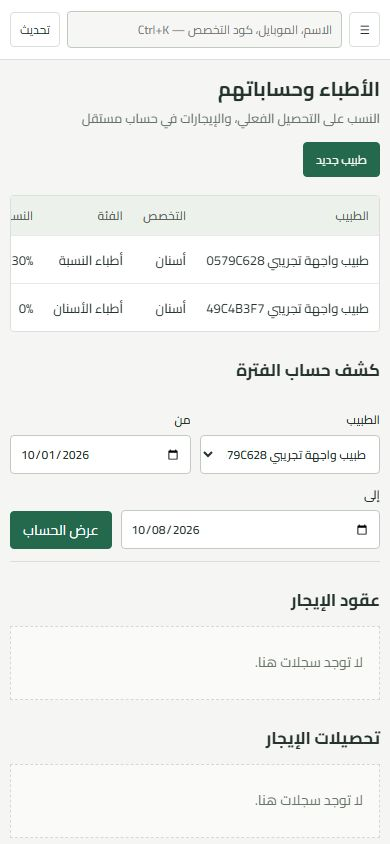
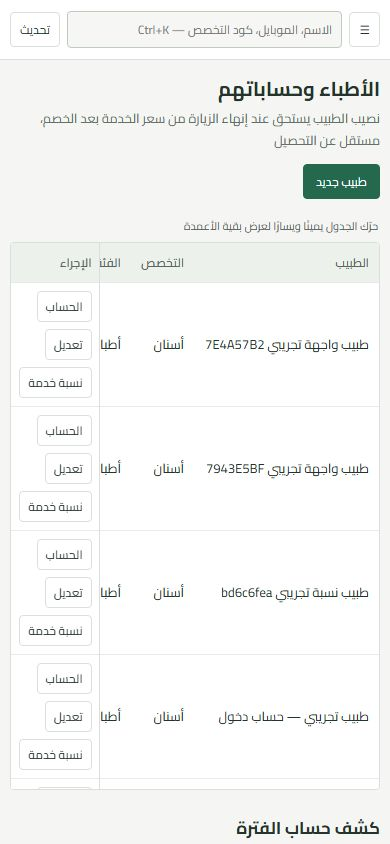
Earn doctor share on completed services independently of collections

diff --git a/src/clinic/Doctors.tsx b/src/clinic/Doctors.tsx
@@ -6,12 +6,12 @@ import {money} from '../domain/money';
 export default function Doctors(){
  const {rows,name,profile,refresh}=useClinic();const task=useTask();const [edit,setEdit]=useState<Row|null|undefined>();const [contract,setContract]=useState<Row|null>(null);const [rent,setRent]=useState<Row|null>(null);const [term,setTerm]=useState<Row|null>(null);
  const [doctor,setDoctor]=useState(profile.doctor_id??rows('doctors')[0]?.id??'');const [starts,setStarts]=useState(today().slice(0,8)+'01');const [ends,setEnds]=useState(today());const [statement,setStatement]=useState<Record<string,unknown>|null>(null);const [rentKey,setRentKey]=useState('');
- const fields:Field[]=[{key:'name',label:'اسم الطبيب',required:true},{key:'specialty_id',label:'التخصص',required:true,type:'select',options:rows('specialties').map(row=>({value:row.id,label:text(row.name)}))},{key:'category',label:'الفئة',type:'select',required:true,options:['dentist','percentage','renting'].map(value=>({value,label:label(value)}))},{key:'default_share_bps',label:'النسبة من التحصيل (%)',type:'percent',required:true},{key:'phone_e164',label:'الموبايل بصيغة +20 (اختياري)'},{key:'schedule',label:'أيام العمل',type:'weekdays',hint:'عدم اختيار أيام يعني متاح كل أيام الأسبوع.'},{key:'active',label:'نشط',type:'checkbox'}];
+ const fields:Field[]=[{key:'name',label:'اسم الطبيب',required:true},{key:'specialty_id',label:'التخصص',required:true,type:'select',options:rows('specialties').map(row=>({value:row.id,label:text(row.name)}))},{key:'category',label:'الفئة',type:'select',required:true,options:['dentist','percentage','renting'].map(value=>({value,label:label(value)}))},{key:'default_share_bps',label:'النسبة من قيمة الخدمة (%)',type:'percent',required:true},{key:'phone_e164',label:'الموبايل بصيغة +20 (اختياري)'},{key:'schedule',label:'أيام العمل',type:'weekdays',hint:'عدم اختيار أيام يعني متاح كل أيام الأسبوع.'},{key:'active',label:'نشط',type:'checkbox'}];
  const entries=(statement?.entries??[]) as Row[];const rents=(statement?.rent??[]) as Row[];
- return <><Heading title={profile.role==='doctor'?'حسابي':'الأطباء وحساباتهم'} detail="النسب على التحصيل الفعلي، والإيجارات في حساب مستقل">{profile.role==='owner'&&<button className="primary" onClick={()=>setEdit(null)}>طبيب جديد</button>}</Heading>{task.feedback}
+ return <><Heading title={profile.role==='doctor'?'حسابي':'الأطباء وحساباتهم'} detail="نصيب الطبيب يستحق عند إنهاء الزيارة من سعر الخدمة بعد الخصم، مستقل عن التحصيل">{profile.role==='owner'&&<button className="primary" onClick={()=>setEdit(null)}>طبيب جديد</button>}</Heading>{task.feedback}
  {profile.role==='owner'&&<Table rows={rows('doctors')} columns={[{label:'الطبيب',render:row=>text(row.name)},{label:'التخصص',render:row=>name('specialties',row.specialty_id)},{label:'الفئة',render:row=>label(row.category)},{label:'النسبة',numeric:true,render:row=>percentLabel(row.default_share_bps)},{label:'الحالة',render:row=><Badge>{row.active?'نشط':'غير نشط'}</Badge>},{label:'الإجراء',render:row=><div className="actions"><button onClick={()=>{setDoctor(row.id);setStatement(null);}}>الحساب</button><button onClick={()=>setEdit(row)}>تعديل</button><button onClick={()=>setTerm(row)}>نسبة خدمة</button>{row.category==='renting'&&<><button onClick={()=>setContract(row)}>عقد إيجار</button><button onClick={()=>{setRentKey(crypto.randomUUID());setRent(row);}}>تحصيل إيجار</button></>}</div>} ]}/>}
- <h2>كشف حساب الفترة</h2><div className="filters"><label>الطبيب<select value={doctor} onChange={event=>{setDoctor(event.target.value);setStatement(null);}}>{rows('doctors').map(row=><option key={row.id} value={row.id}>{text(row.name)}</option>)}</select></label><label>من<input type="date" value={starts} onChange={event=>setStarts(event.target.value)}/></label><label>إلى<input type="date" value={ends} onChange={event=>setEnds(event.target.value)}/></label><button className="primary" disabled={!doctor||task.busy} onClick={()=>void task.run(async()=>{const {data,error}=await db.rpc('doctor_statement',{doctor,starts,ends});if(error)throw error;setStatement(data as Record<string,unknown>);})}>عرض الحساب</button>{statement&&<><button onClick={()=>exportCsv(entries.map(row=>({الخدمة:row.service,التاريخ:date(row.received_at),المصدر:row.source,المحصل:money(row.collected_minor),نصيب_الطبيب:money(row.doctor_share_minor)})),'doctor-statement.csv')} disabled={!entries.length}>تصدير CSV</button><button onClick={()=>window.print()}>طباعة</button></>}</div>
- {statement&&<><div className="ledger-summary"><span>الخدمات المفوترة <strong>{money(statement.billed_minor)}</strong></span><span>المحصّل <strong>{money(statement.collected_minor)}</strong></span><span>نصيب الطبيب <strong>{money(statement.doctor_share_minor)}</strong></span></div><Table rows={entries.map((row,index)=>({...row,id:String(index)}))} columns={[{label:'الخدمة',render:row=>text(row.service)},{label:'تاريخ التحصيل',render:row=>date(row.received_at)},{label:'المصدر',render:row=>row.source==='patient'?'العميل':'التأمين'},{label:'المرجع',render:row=><bdi>{text(row.reference)}</bdi>},{label:'المحصّل',numeric:true,render:row=>money(row.collected_minor)},{label:'نصيب الطبيب',numeric:true,render:row=>money(row.doctor_share_minor)}]}/><h2>الإيجار المستحق خلال الفترة</h2><Table rows={rents} columns={[{label:'من',render:row=>date(row.period_start)},{label:'إلى',render:row=>date(row.period_end)},{label:'المستحق',numeric:true,render:row=>money(row.amount_minor)},{label:'المدفوع حتى نهاية الفترة',numeric:true,render:row=>money(row.paid_minor)},{label:'المتبقي',numeric:true,render:row=>money(BigInt(text(row.amount_minor))-BigInt(text(row.paid_minor)))}]}/></>}
+ <h2>كشف حساب الفترة</h2><div className="filters"><label>الطبيب<select value={doctor} onChange={event=>{setDoctor(event.target.value);setStatement(null);}}>{rows('doctors').map(row=><option key={row.id} value={row.id}>{text(row.name)}</option>)}</select></label><label>من<input type="date" value={starts} onChange={event=>setStarts(event.target.value)}/></label><label>إلى<input type="date" value={ends} onChange={event=>setEnds(event.target.value)}/></label><button className="primary" disabled={!doctor||task.busy} onClick={()=>void task.run(async()=>{const {data,error}=await db.rpc('doctor_statement',{doctor,starts,ends});if(error)throw error;setStatement(data as Record<string,unknown>);})}>عرض الحساب</button>{statement&&<><button onClick={()=>exportCsv(entries.map(row=>({الخدمة:row.service,التاريخ:date(row.received_at),قيمة_الخدمة:money(row.service_total_minor),النسبة:percentLabel(row.doctor_share_bps),نصيب_الطبيب:money(row.doctor_share_minor)})),'doctor-statement.csv')} disabled={!entries.length}>تصدير CSV</button><button onClick={()=>window.print()}>طباعة</button></>}</div>
+ {statement&&<><div className="ledger-summary"><span>الخدمات المنفذة <strong>{money(statement.completed_minor)}</strong></span><span>المحصّل <strong>{money(statement.collected_minor)}</strong></span><span>نصيب الطبيب المستحق <strong>{money(statement.doctor_share_minor)}</strong></span></div><Table rows={entries.map((row,index)=>({...row,id:String(index)}))} columns={[{label:'الخدمة',render:row=>text(row.service)},{label:'تاريخ إنهاء الزيارة',render:row=>date(row.received_at)},{label:'قيمة الخدمة بعد الخصم',numeric:true,render:row=>money(row.service_total_minor)},{label:'النسبة المثبتة',render:row=>percentLabel(row.doctor_share_bps)},{label:'نصيب الطبيب',numeric:true,render:row=>money(row.doctor_share_minor)}]}/><h2>الإيجار المستحق خلال الفترة</h2><Table rows={rents} columns={[{label:'من',render:row=>date(row.period_start)},{label:'إلى',render:row=>date(row.period_end)},{label:'المستحق',numeric:true,render:row=>money(row.amount_minor)},{label:'المدفوع حتى نهاية الفترة',numeric:true,render:row=>money(row.paid_minor)},{label:'المتبقي',numeric:true,render:row=>money(BigInt(text(row.amount_minor))-BigInt(text(row.paid_minor)))}]}/></>}
  {profile.role==='owner'&&<><h2>عقود الإيجار</h2><Table rows={rows('rent_contracts')} columns={[{label:'الطبيب',render:row=>name('doctors',row.doctor_id)},{label:'المبلغ',numeric:true,render:row=>money(row.amount_minor)},{label:'الدورية',render:row=>row.period==='monthly'?'شهري':'فترة محددة'},{label:'البداية',render:row=>date(row.starts_on)},{label:'الحالة',render:row=>row.active?'نشط':'مغلق'},{label:'الإجراء',render:row=>row.active?<button onClick={()=>{if(window.confirm('إغلاق العقد وإيقاف إنشاء مستحقات جديدة؟'))void task.run(async()=>{await command('rent_contract_close',{id:row.id});await refresh();});}}>إغلاق العقد</button>:'—'}]}/><h2>تحصيلات الإيجار</h2><Table rows={rows('rent_payments')} columns={[{label:'الطبيب',render:row=>name('doctors',row.doctor_id)},{label:'التاريخ',render:row=>date(row.paid_at)},{label:'المبلغ',numeric:true,render:row=>money(row.amount_minor)},{label:'الإيصال',render:row=><bdi>{text(row.receipt_number)}</bdi>},{label:'الإجراء',render:row=>!row.reverses_payment_id&&!rows('rent_payments').some(pay=>pay.reverses_payment_id===row.id)?<button onClick={()=>{if(window.confirm('عكس تحصيل الإيجار بالكامل؟'))void task.run(async()=>{await command('rent_reverse',{id:row.id,idempotency_key:crypto.randomUUID()});await refresh();});}}>عكس التحصيل</button>:row.reverses_payment_id?'عكس تحصيل':'اتعكس'}]}/></>}
  {edit!==undefined&&<Dialog title={edit?'تعديل الطبيب':'طبيب جديد'} close={()=>setEdit(undefined)}><Form fields={fields} initial={edit??{category:'dentist',default_share_bps:0,active:true}} submit={async values=>{await command('doctor_save',{...values,...(edit?{id:edit.id}:{})});await refresh();setEdit(undefined);}}/></Dialog>}
  {term&&<Dialog title={`نسبة خدمة — ${text(term.name)}`} close={()=>setTerm(null)}><Form fields={[{key:'service_id',label:'الخدمة',type:'select',required:true,options:rows('services').filter(row=>row.specialty_id===term.specialty_id).map(row=>({value:row.id,label:text(row.name)}))},{key:'share_bps',label:'النسبة (%)',type:'percent',required:true}]} initial={{share_bps:term.default_share_bps}} submit={async values=>{await command('doctor_service_share',{...values,doctor_id:term.id});await refresh();setTerm(null);}}/></Dialog>}

diff --git a/src/clinic/Reports.tsx b/src/clinic/Reports.tsx
@@ -2,7 +2,7 @@ import {useState} from 'react';
 import {date,label,text,today} from './api';
 import {useClinic} from './store';
 import {Heading,Table,exportCsv} from './ui';
-import {money} from '../domain/money';
+import {money,roundShare} from '../domain/money';
 const auditActions:Record<string,string>={doctor_terms_saved:'تعديل نسبة طبيب',insurance_terms_saved:'تعديل نسبة التأمين',line_added:'إضافة خدمة',offer_redeemed:'استخدام عرض',payment_recorded:'تسجيل تحصيل',payment_reversed:'رد تحصيل',prices_published:'نشر قائمة أسعار',service_share_saved:'تعديل نسبة خدمة',unposted_line_removed:'إزالة خدمة قبل التحصيل',visit_voided:'إلغاء زيارة',invoice_voided:'إلغاء فاتورة',rent_contract_closed:'إغلاق عقد إيجار',rent_contract_created:'إنشاء عقد إيجار',rent_received:'تحصيل إيجار',rent_reversed:'عكس تحصيل إيجار',settlement_received:'تسوية تأمين',settlement_reversed:'عكس تسوية',profile_changed:'تعديل حساب مستخدم'};
 const auditEntities:Record<string,string>={doctors:'طبيب',insurance_companies:'شركة تأمين',visit_lines:'خدمة زيارة',visits:'زيارة',payments:'إيصال',price_list_versions:'قائمة أسعار',insurance_invoices:'فاتورة تأمين',rent_contracts:'عقد إيجار',rent_payments:'تحصيل إيجار',insurance_settlements:'تسوية',profiles:'مستخدم'};
 const auditDetails=(value:unknown)=>{
@@ -19,8 +19,8 @@ export default function Reports(){
  const patientCash=payments.reduce((sum,row)=>sum+(row.kind==='refund'?-1n:1n)*BigInt(text(row.amount_minor)),0n);
  const insuranceCash=rows('settlement_allocations').filter(row=>settlements.some(pay=>pay.id===row.settlement_id)).reduce((sum,row)=>sum+(settlements.find(pay=>pay.id===row.settlement_id)?.reverses_settlement_id?-1n:1n)*BigInt(text(row.amount_minor)),0n);
  const rentCash=rents.reduce((sum,row)=>sum+(row.reverses_payment_id?-1n:1n)*BigInt(text(row.amount_minor)),0n);
- const patientShare=rows('payment_allocations').filter(row=>payments.some(pay=>pay.id===row.payment_id)).reduce((sum,row)=>sum+(payments.find(pay=>pay.id===row.payment_id)?.kind==='refund'?-1n:1n)*BigInt(text(row.doctor_share_minor)),0n);
- const insuranceShare=rows('settlement_allocations').filter(row=>settlements.some(pay=>pay.id===row.settlement_id)).reduce((sum,row)=>sum+(settlements.find(pay=>pay.id===row.settlement_id)?.reverses_settlement_id?-1n:1n)*BigInt(text(row.doctor_share_minor)),0n);
- return <><Heading title="التقارير المالية" detail="كل الأرقام من سجلات التحصيل والتسويات الفعلية"><button onClick={()=>window.print()}>طباعة التقرير</button><button disabled={!payments.length} onClick={()=>exportCsv(payments.map(row=>({الإيصال:row.receipt_number,العميل:name('patients',row.patient_id),التاريخ:date(row.paid_at),النوع:label(row.kind),المبلغ:money(row.amount_minor),الطريقة:label(row.method)})),'payments.csv')}>تصدير التحصيل CSV</button></Heading><div className="filters"><label>من<input type="date" value={from} onChange={event=>setFrom(event.target.value)}/></label><label>إلى<input type="date" value={until} onChange={event=>setUntil(event.target.value)}/></label></div><div className="ledger-summary"><span>العملاء <strong>{money(patientCash)}</strong></span><span>التأمين <strong>{money(insuranceCash)}</strong></span><span>الإيجارات <strong>{money(rentCash)}</strong></span><span>نصيب الأطباء <strong>{money(patientShare+insuranceShare)}</strong></span><span>حصة العيادة من المحصّل <strong>{money(patientCash+insuranceCash+rentCash-patientShare-insuranceShare)}</strong></span></div><h2>تحصيل العملاء</h2><Table rows={payments} columns={[{label:'الإيصال',render:row=><bdi>{text(row.receipt_number)}</bdi>},{label:'العميل',render:row=>name('patients',row.patient_id)},{label:'التاريخ',render:row=>date(row.paid_at)},{label:'النوع',render:row=>label(row.kind)},{label:'المبلغ',numeric:true,render:row=>money(row.amount_minor)},{label:'الطريقة',render:row=>label(row.method)}]}/><h2>سجل التعديلات المالية</h2><p className="notice">سجل التدقيق التاريخي قد يشمل عمليات تجريبية مؤرشفة؛ لا تدخل في الإجماليات أعلاه.</p><Table rows={rows('audit_log').filter(row=>localDay(row.occurred_at)>=from&&localDay(row.occurred_at)<=until)} columns={[{label:'التاريخ',render:row=>date(row.occurred_at)},{label:'الموظف',render:row=>name('profiles',row.actor_id)},{label:'الإجراء',render:row=>auditActions[text(row.action)]??text(row.action)},{label:'السجل',render:row=>auditEntities[text(row.entity)]??text(row.entity)},{label:'القيم المالية',render:row=><bdi>{auditDetails(row.financial_values)}</bdi>}]}/></>;
+ const completedVisits=new Set(rows('visits').filter(row=>row.status==='completed'&&row.completed_at&&localDay(row.completed_at)>=from&&localDay(row.completed_at)<=until).map(row=>row.id));
+ const earnedShare=rows('visit_lines').filter(row=>completedVisits.has(text(row.visit_id))).reduce((sum,row)=>sum+roundShare(BigInt(text(row.line_total_minor)),Number(row.doctor_share_bps)),0n);
+ return <><Heading title="التقارير المالية" detail="التحصيل الفعلي ونصيب الأطباء المستحق عن الزيارات المنتهية"><button onClick={()=>window.print()}>طباعة التقرير</button><button disabled={!payments.length} onClick={()=>exportCsv(payments.map(row=>({الإيصال:row.receipt_number,العميل:name('patients',row.patient_id),التاريخ:date(row.paid_at),النوع:label(row.kind),المبلغ:money(row.amount_minor),الطريقة:label(row.method)})),'payments.csv')}>تصدير التحصيل CSV</button></Heading><div className="filters"><label>من<input type="date" value={from} onChange={event=>setFrom(event.target.value)}/></label><label>إلى<input type="date" value={until} onChange={event=>setUntil(event.target.value)}/></label></div><div className="ledger-summary"><span>العملاء <strong>{money(patientCash)}</strong></span><span>التأمين <strong>{money(insuranceCash)}</strong></span><span>الإيجارات <strong>{money(rentCash)}</strong></span><span>نصيب الأطباء المستحق <strong>{money(earnedShare)}</strong></span><span>التحصيل ناقص المستحق للأطباء <strong>{money(patientCash+insuranceCash+rentCash-earnedShare)}</strong></span></div><h2>تحصيل العملاء</h2><Table rows={payments} columns={[{label:'الإيصال',render:row=><bdi>{text(row.receipt_number)}</bdi>},{label:'العميل',render:row=>name('patients',row.patient_id)},{label:'التاريخ',render:row=>date(row.paid_at)},{label:'النوع',render:row=>label(row.kind)},{label:'المبلغ',numeric:true,render:row=>money(row.amount_minor)},{label:'الطريقة',render:row=>label(row.method)}]}/><h2>سجل التعديلات المالية</h2><p className="notice">سجل التدقيق التاريخي قد يشمل عمليات تجريبية مؤرشفة؛ لا تدخل في الإجماليات أعلاه.</p><Table rows={rows('audit_log').filter(row=>localDay(row.occurred_at)>=from&&localDay(row.occurred_at)<=until)} columns={[{label:'التاريخ',render:row=>date(row.occurred_at)},{label:'الموظف',render:row=>name('profiles',row.actor_id)},{label:'الإجراء',render:row=>auditActions[text(row.action)]??text(row.action)},{label:'السجل',render:row=>auditEntities[text(row.entity)]??text(row.entity)},{label:'القيم المالية',render:row=><bdi>{auditDetails(row.financial_values)}</bdi>}]}/></>;
 }
 

diff --git a/docs/ASSUMPTIONS.md b/docs/ASSUMPTIONS.md
@@ -14,7 +14,7 @@
 
 - Monetary amounts are integer piastres. Percentages are integer basis points (10000 = 100%). Round half-up once at the final share, then subtract to calculate the other share.
 - Doctor categories are dentist, percentage and renting, with Arabic labels exactly requested. Dentists default to no revenue share; optional share configuration works like percentage doctors. Per-service rates override the doctor's default. Renting doctors have configurable calendar-month rent by default, with custom start/end periods supported; no automatic prorating.
-- Statements use actual collected funds (patient receipts plus insurer settlements), attributed to lines. Allocate receipts proportionally to unpaid line obligations using largest-remainder piastre allocation, with line ID as the stable tie-breaker. Snapshot doctor rates on each charged line. Rent due/paid is a separate ledger, not deducted silently from service collections.
+- Starting 12/10/2026, the owner explicitly chose doctor entitlement on visit completion, based on each line's price after discounts and its stored percentage, independent of patient receipts and payer settlements. Round each line half-up to a piastre. Open and void visits contribute no entitlement. Completion time determines the statement period; old completed visits with no completion timestamp use their service date. Existing receipt/settlement allocations remain untouched as historical collection records. Rent due/paid stays separate. No doctor payout is implied by showing entitlement.
 - A visit snapshots its client type, payer, co-pay terms, prices and doctor terms. Insurance and syndicate co-pay is calculated after discounts, with covered amount = total minus co-pay. Reception enters the card percentage on every new covered visit; there is no payer default. No unprovided annual caps or exclusions are invented.
 - The payer screen's total share includes the current covered share of open visits so the owner can see the amount before visit completion. It separates this provisional share from issued invoices; only an issued invoice can be settled, and the total decreases after settlement. A voided visit and voided invoice contribute nothing.
 - Starting 12/10/2026, new insurance and syndicate service lines use the published Family Care cash price effective on the visit date. The first service line pins the price-list version for further lines in the same visit. Existing charged lines and historical price versions stay unchanged. Reception enters patient co-pay per visit from the card; payer coverage is the exact complementary percentage and becomes a receivable settled later by the owner. For 300 جنيه with 20% co-pay, the patient owes 60 and the payer 240. Split nonnegative piastres half-up once and derive payer amount by subtraction.

diff --git a/docs/STATE.md b/docs/STATE.md
@@ -1,5 +1,9 @@
 # حالة المشروع — 09/10/2026
 
+## مستحق الطبيب عند إنهاء الزيارة — 12/10/2026
+
+اختار المالك حساب مستحق الطبيب من قيمة الخدمة بعد الخصم عند إنهاء الزيارة، دون ارتباط بتحصيل العميل أو تسوية التأمين. الترحيلة `20261012183143_doctor_completed_service_earnings.sql` تضيف وقت إنهاء ثابتاً وتعدل كشف الحساب مع إبقاء بيانات التحصيل والنسب المثبتة محفوظة. كل خدمة من زيارة مكتملة تُحسب مرة واحدة، والزيارة المفتوحة أو الملغاة لا تستحق نسبة. فترة الحساب حسب وقت الإنهاء بتوقيت القاهرة؛ الزيارات المكتملة القديمة تستخدم تاريخ الزيارة لغياب وقت إنهاء تاريخي. تعرض التقارير المستحق مستقلاً، وصافي التحصيل ناقص المستحق قد يكون سالباً لأن المستحق ليس دفعة للدكتور. نجحت 16 اختبارات مال وقاعدة ومسار التأمين في المتصفح؛ النشر والفحص الكامل قيد الإنجاز.
+
 ## تاريخ الزيارة الافتراضي — 12/10/2026
 
 كل نماذج الزيارة الجديدة تبدأ بتاريخ اليوم بتوقيت القاهرة عند فتح النموذج، مع السماح بتغييره يدوياً. صار توليد تاريخ حقل HTML بصيغة YYYY-MM-DD من أجزاء التاريخ صراحة لضمان عمله باختلاف المتصفحات، وأضيف توضيح بجوار الحقل. نجح فحص متصفح للفتح بتاريخ اليوم والتعديل اليدوي وإعادة الفتح دون كتابة أي بيانات، مع lint وtypecheck وbuild.

diff --git a/docs/USER_GUIDE.md b/docs/USER_GUIDE.md
@@ -58,7 +58,7 @@
 
 **إذا لم يظهر عميل للطبيب:** اختيار التخصص نفسه لا يربط العميل بالطبيب. يجب تسجيل زيارة للعميل واختيار الطبيب المطلوب فيها؛ بعدها يرى الطبيب الزيارة والملف المرتبطين بها. راجع أيضاً أن الزيارة لم تُلغَ وأن حساب الطبيب مربوط بسجل الطبيب الصحيح.
 
-الطبيب يفتح «حسابي»، يحدد فترة التقرير ثم يضغط «عرض الحساب». يعرض كشفه ما تم تحصيله فعلياً ونصيبه، مع خيار التصدير أو الطباعة.
+الطبيب يفتح «حسابي»، يحدد فترة التقرير ثم يضغط «عرض الحساب». يستحق النسبة عند إنهاء الزيارة من قيمة الخدمة بعد الخصم، حتى لو لم يُحصّل ثمنها. خدمة 6000 جنيه بنسبة مثبتة 25% تستحق 1500 جنيه؛ الزيارة المفتوحة لا تسجل مستحقاً. يعرض الكشف الخدمة وقيمتها والنسبة المثبتة وتاريخ إنهائها ونصيب الطبيب مع التصدير والطباعة. التحصيل الظاهر معلومة مستقلة، والمستحق لا يعني أن المبلغ دُفع للطبيب. تعديل النسبة يؤثر على الخدمات الجديدة فقط.
 
 ## التأمين والتقارير — للمالك
 

diff --git a/docs/PLAN.md b/docs/PLAN.md
@@ -1,5 +1,9 @@
 # Delivery checklist
 
+- [x] Calculate doctor entitlement from completed service prices after discount independently of collections; preserve stored rates and prevent double counting receipts.
+- [x] Verify full E2E and desktop/phone screens for doctor entitlement; 16 database/money tests and all six browser journeys passed (role label assertion updated and rerun).
+- [ ] Publish the doctor entitlement change and verify the live build.
+
 - [x] Default new visit forms to today's Cairo date while allowing manual changes; verify without creating records.
 
 - [x] Show pending payer visits with customer, services and payer shares before invoice issuance; verify transition on completion.
